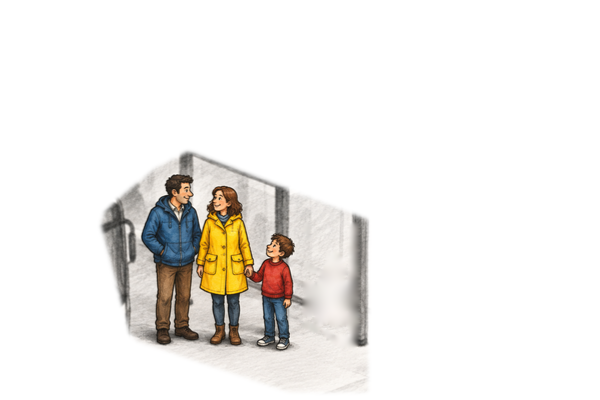
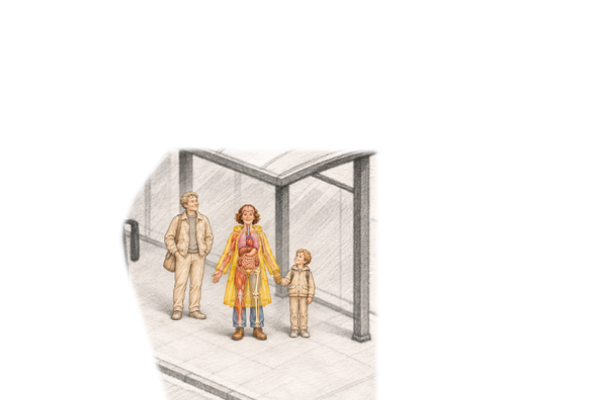
Paint the bus-stop family from the body plate; paper behind plate texts
The family on the map is now a miniature of the people on the body plate (man, the
see-through woman in yellow, the child holding her hand), so the zoom lands without a
jump, and the guides, prompt template, skill and imagegen.sh now require painting map
drawings from the plate. Plate titles and labels sit on a soft pool of paper so they
stay readable over the painting.

Changed region(s): [[0.15, 0.36, 0.63, 1.0]]

diff --git a/src/plane.html b/src/plane.html
@@ -192,6 +192,12 @@ button { font: inherit; color: inherit; }
 .intro h1 small { display: block; font-family: var(--font-text); font-size: 15px; letter-spacing: .16em; text-transform: uppercase; margin-bottom: 6px; color: #5a5146; }
 .intro p { margin: 8px 0 0; font-size: 14px; line-height: 1.35; max-width: 34em; color: #3a332b; }
 .focused .intro { opacity: 0; }
+/* plate texts sit on a soft pool of the plate's own paper, so they stay readable over the painting */
+.intro::before, .note::before { content: ""; position: absolute; z-index: -1; pointer-events: none;
+  background: radial-gradient(closest-side, var(--paper) 55%, color-mix(in srgb, var(--paper) 80%, transparent) 72%, transparent); }
+.intro::before { inset: -46px -70px -46px -70px; }
+.note::before { inset: -14px -26px -14px -26px; }
+.intro, .note { isolation: isolate; }
 
 /* Controls float over the plate. */
 #hud {

diff --git a/.claude/skills/add-a-machine/SKILL.md b/.claude/skills/add-a-machine/SKILL.md
@@ -22,6 +22,7 @@ is the project layer on top: where things go, and what a reviewer will check.
 - [ ] Plate: one coherent cut-away, ink and watercolour, ivory paper, empty margins, no text, counts right, faces the way the map drawing faces.
 - [ ] 8 to 14 parts with accurate outlines; each has a close-up, checked facts and a "Can you find it?" line.
 - [ ] Every zoom tile matches its source (nothing moved, added or lost).
+- [ ] Map: the coloured drawing is a miniature of the plate (same pieces, arrangement, colours, direction), painted with the plate attached as Image 2, not a pre-existing grey thing coloured in.
 - [ ] Map: only `world/colour.png` changed the map. The machine is in colour, everything around it stays grey, and the zoom into the plate lands without a jump (`axis`/`plateAxis`).
 - [ ] At least one "How it works" page the child can operate, if the machine has a mechanism worth showing.
 - [ ] `node tools/smoke.mjs` prints no errors, and the screenshots for desktop and phone are in the pull request.
@@ -29,6 +30,9 @@ is the project layer on top: where things go, and what a reviewer will check.
 
 ## Pitfalls
 
+- The map drawing and the plate must show the same thing. The first body attempt coloured in the two passengers
+  already at the bus stop, while the plate showed a different family of three, so the zoom didn't match. Paint the
+  map patch from the plate (Image 2), and use `colour_in.py cut --cover` to remove what isn't on the plate.
 - Image models miscount wheels, engines, blades and seats, and invent text. Check at full size, every time.
 - Grey white paint looks like paper. If the machine is white, keep `open_sky` false, so the build keeps its white areas.
 - `colour_in.py cut` keeps only what turned colourful. If it grabs too much, make the edit prompt stricter and paint again.

diff --git a/docs/prompts/README.md b/docs/prompts/README.md
@@ -52,12 +52,16 @@ ABSOLUTELY NO TEXT: no letters, words, labels, numbers, logos, signs or annotati
 `scripts/tiles.py` writes these prompts itself from `describe` in `subject.json`: it crops an area,
 enlarges it and asks the model to repaint the same picture with finer detail, keeping every shape.
 
-## 4. Colouring it in on the map (`subjects/<id>/world/painted.png`, edit `grey.png`)
+## 4. Colouring it in on the map (`subjects/<id>/world/painted.png`, edit `grey.png`, plate attached as Image 2)
+
+The map drawing must be a miniature of the plate, never just the grey thing that was already there coloured in.
 
 ```
-Image 1 is a crop of a hand-drawn soft grey pencil isometric map of a small river town on warm white paper. EDIT THIS EXACT IMAGE, keeping every line, shape, position and the framing exactly as they are, with ONE change:
+Image 1 is a crop of a hand-drawn soft grey pencil isometric map of a small river town on warm white paper. Image 2 is the encyclopedia plate this place opens into.
 
-Colour in ONLY the <machine> (and its own small details: <crew, cargo, …>) in rich ink-and-watercolour, like the jumbo jet and the tram on the same map: <its colours>. Everything else stays soft grey pencil, untouched.
+EDIT IMAGE 1, keeping every line, shape, position and the framing exactly as they are, with ONE change:
+
+Replace <the grey thing> with a tiny miniature of EXACTLY what is in Image 2: <list every piece and person, left to right, with clothes, colours and which way they face>, painted in rich ink-and-watercolour like the jumbo jet and the tram on the same map, so it reads as a bright little patch of colour from far away. Remove anything in that spot that is not in Image 2. Everything else stays soft grey pencil, untouched.
 
 No text, letters or numbers. Same framing as Image 1.
 ```

diff --git a/docs/ADD-A-MACHINE.md b/docs/ADD-A-MACHINE.md
@@ -67,9 +67,17 @@ The map is shared, so you never edit `world/art/world.png`. Your machine brings 
 
 ```
 python3 tools/colour_in.py crop excavator 1160 540 230 150     # the grey drawing's area in map pixels, with a margin
-# paint subjects/excavator/world/painted.png from grey.png with template 4 (image edit)
+scripts/imagegen.sh edit prompt.txt subjects/excavator/world/painted.png subjects/excavator/world/grey.png subjects/excavator/art/plate.png
 python3 tools/colour_in.py cut excavator                       # writes world/colour.png and overlay.rect
 ```
+
+**The map drawing must be a miniature of your plate.** Same machine, same pieces, same arrangement, same
+colours, facing the same way: everything you zoom into must already be there, small. Always attach your
+plate as the second image (Image 2) to the colour-in edit, and repaint the area rather than colouring in
+whatever grey thing happened to be there. Bad: the bus stop's existing two passengers coloured in, when the
+plate shows a different family of three. Good: the plane and tram, whose drawings turn into their plates
+without a jump. If the old drawing must disappear (people who aren't on the plate), add
+`--cover x0 y0 x1 y1` to `cut`.
 
 Then fill in `spot` in `subject.json`:
 - `polys`: the outline on the map.

diff --git a/docs/SPACES.md b/docs/SPACES.md
@@ -33,8 +33,9 @@ inside another one is in `subject.json`:
 Optionally, set `"opens": "<child id>"` on the parent's part (in `src/parts.js`) that contains the child.
 Its panel then shows **Inside: …** as the first "Look deeper" button, as the body's Skin part does.
 
-The child should be painted so its plate **matches its drawing on the parent**: the same thing seen the same
-way. The cell plate shows the round skin cell from the skin plate, enlarged. The body plate shows the woman
+The child's plate must **match its drawing on the parent**: the same thing seen the same way, with the same
+pieces and colours. Paint the drawing on the parent from the child's plate (attach it as a reference), not the
+other way round from whatever was there. The cell plate shows the round skin cell from the skin plate, enlarged. The body plate shows the woman
 in the yellow raincoat from the bus stop. If the match is loose, the dissolve still works, but it reads as a
 cut rather than a zoom.
 
